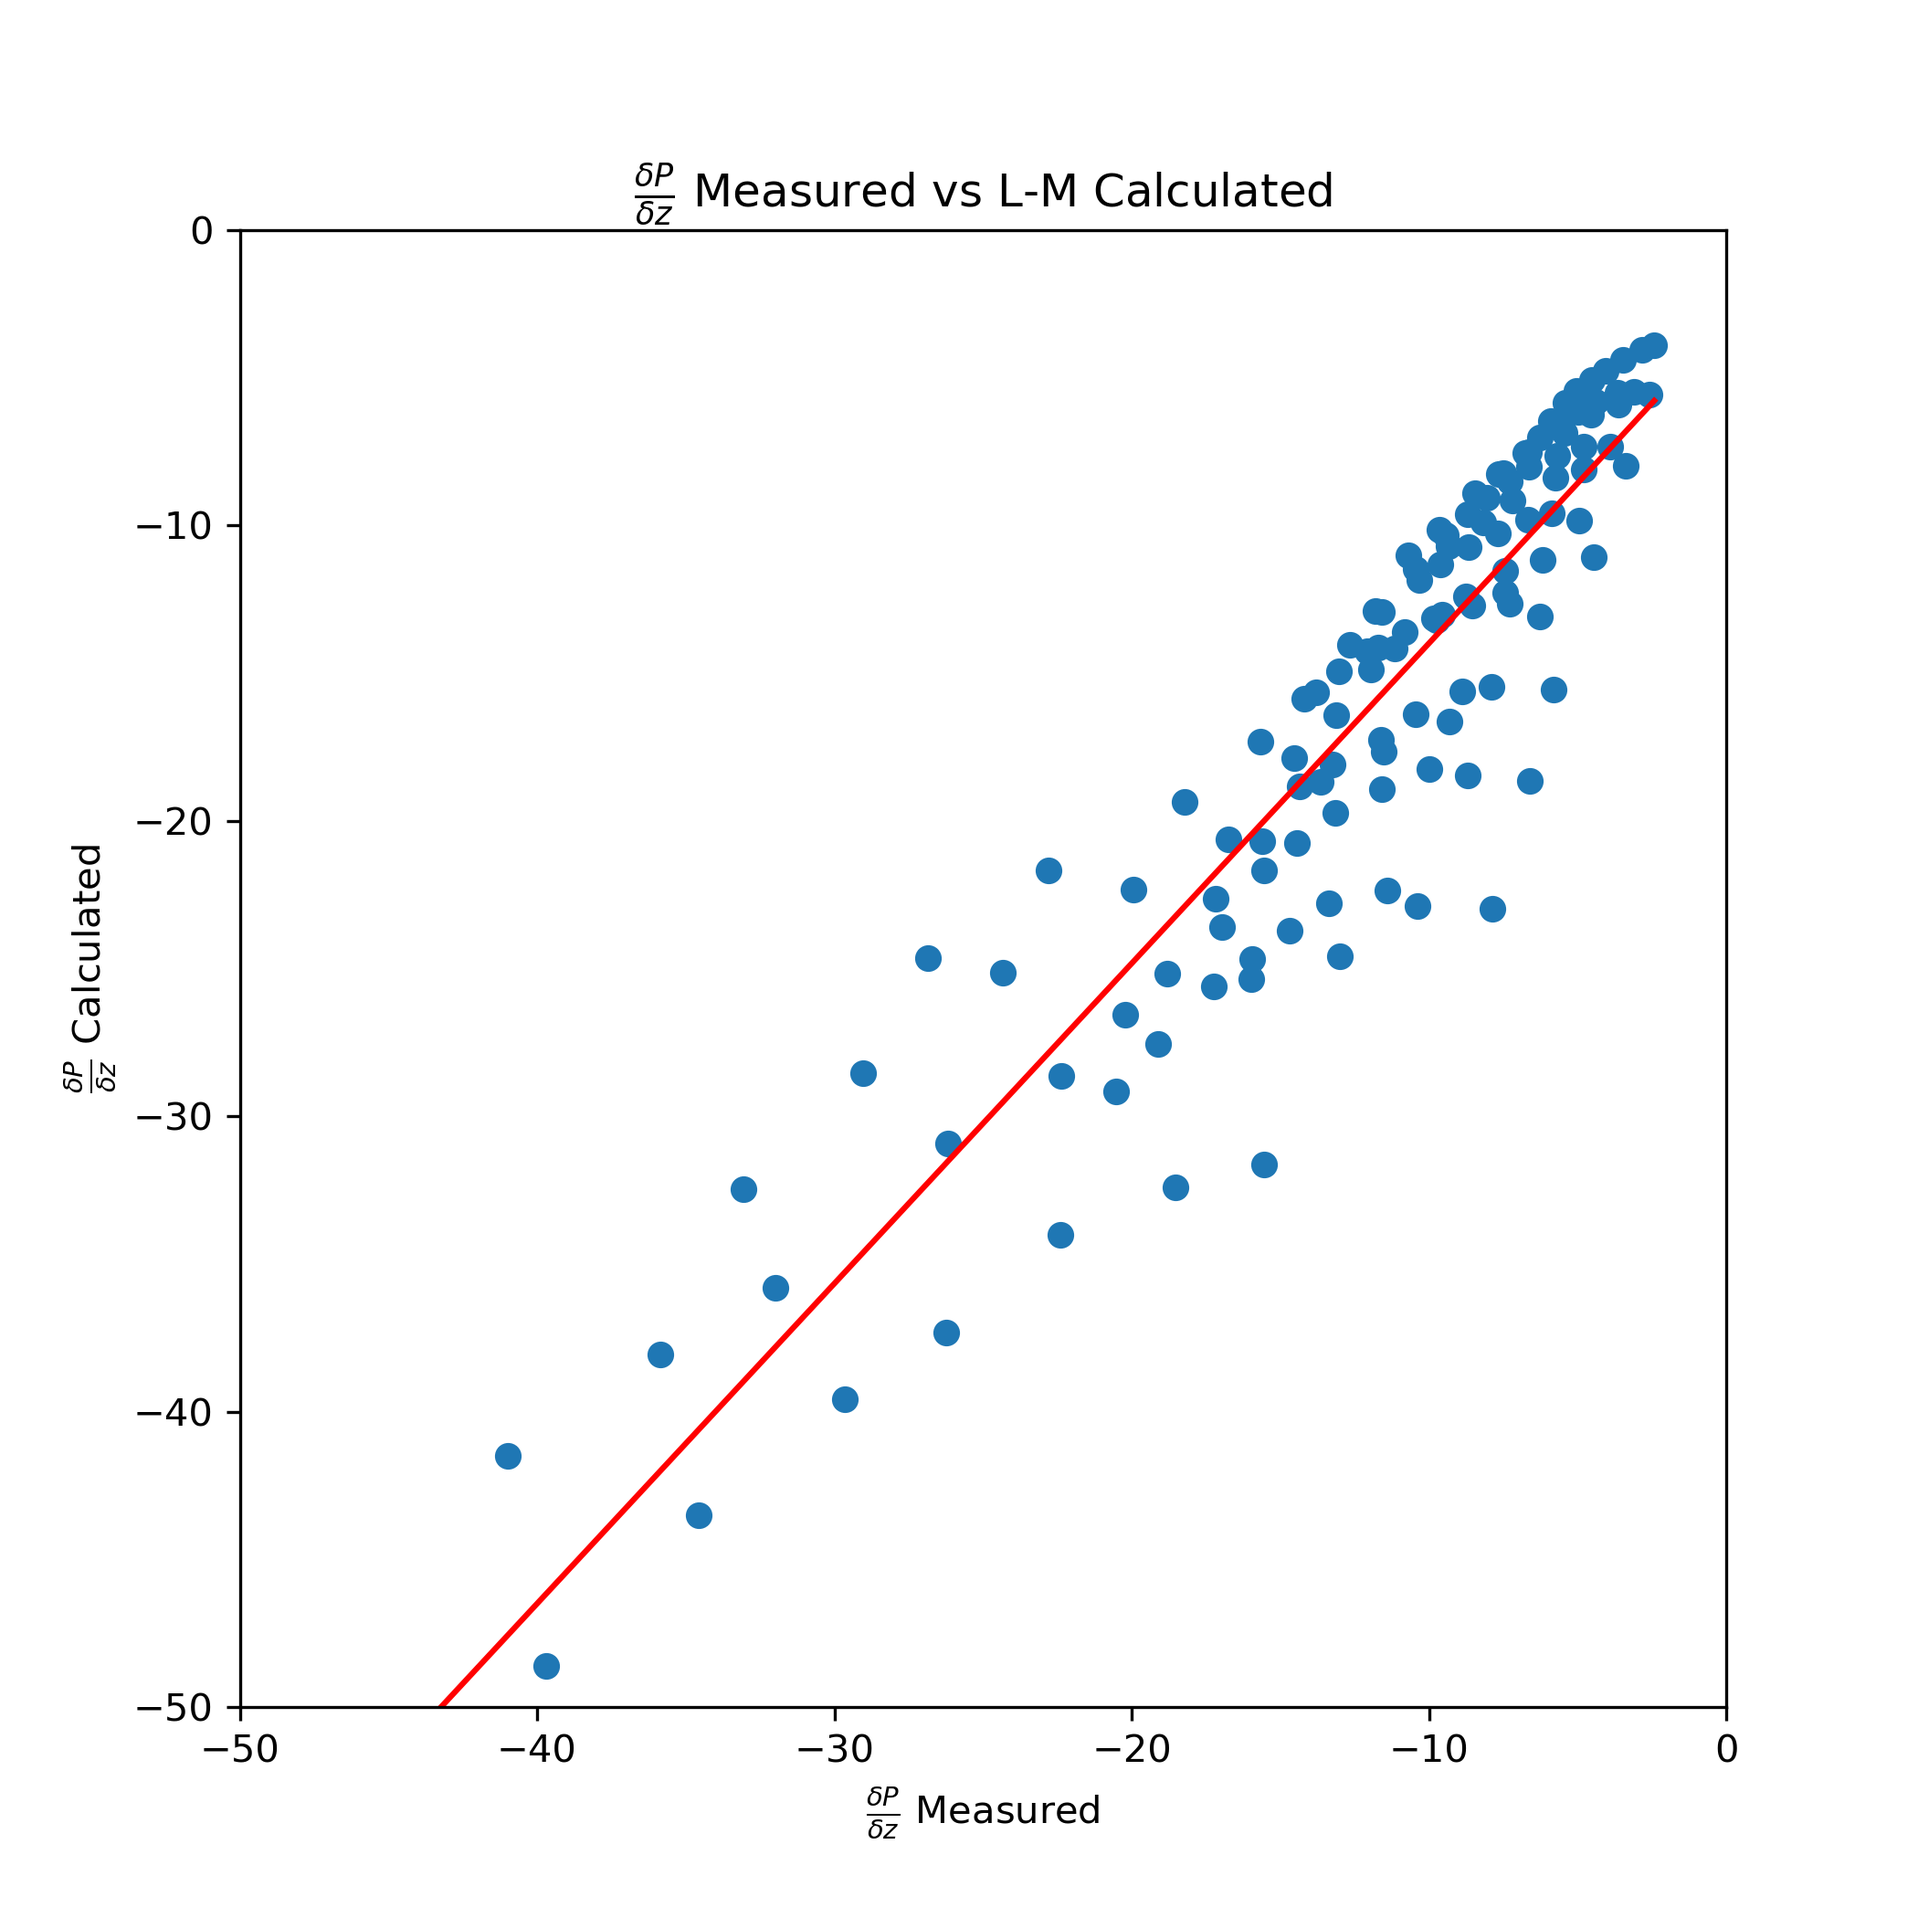
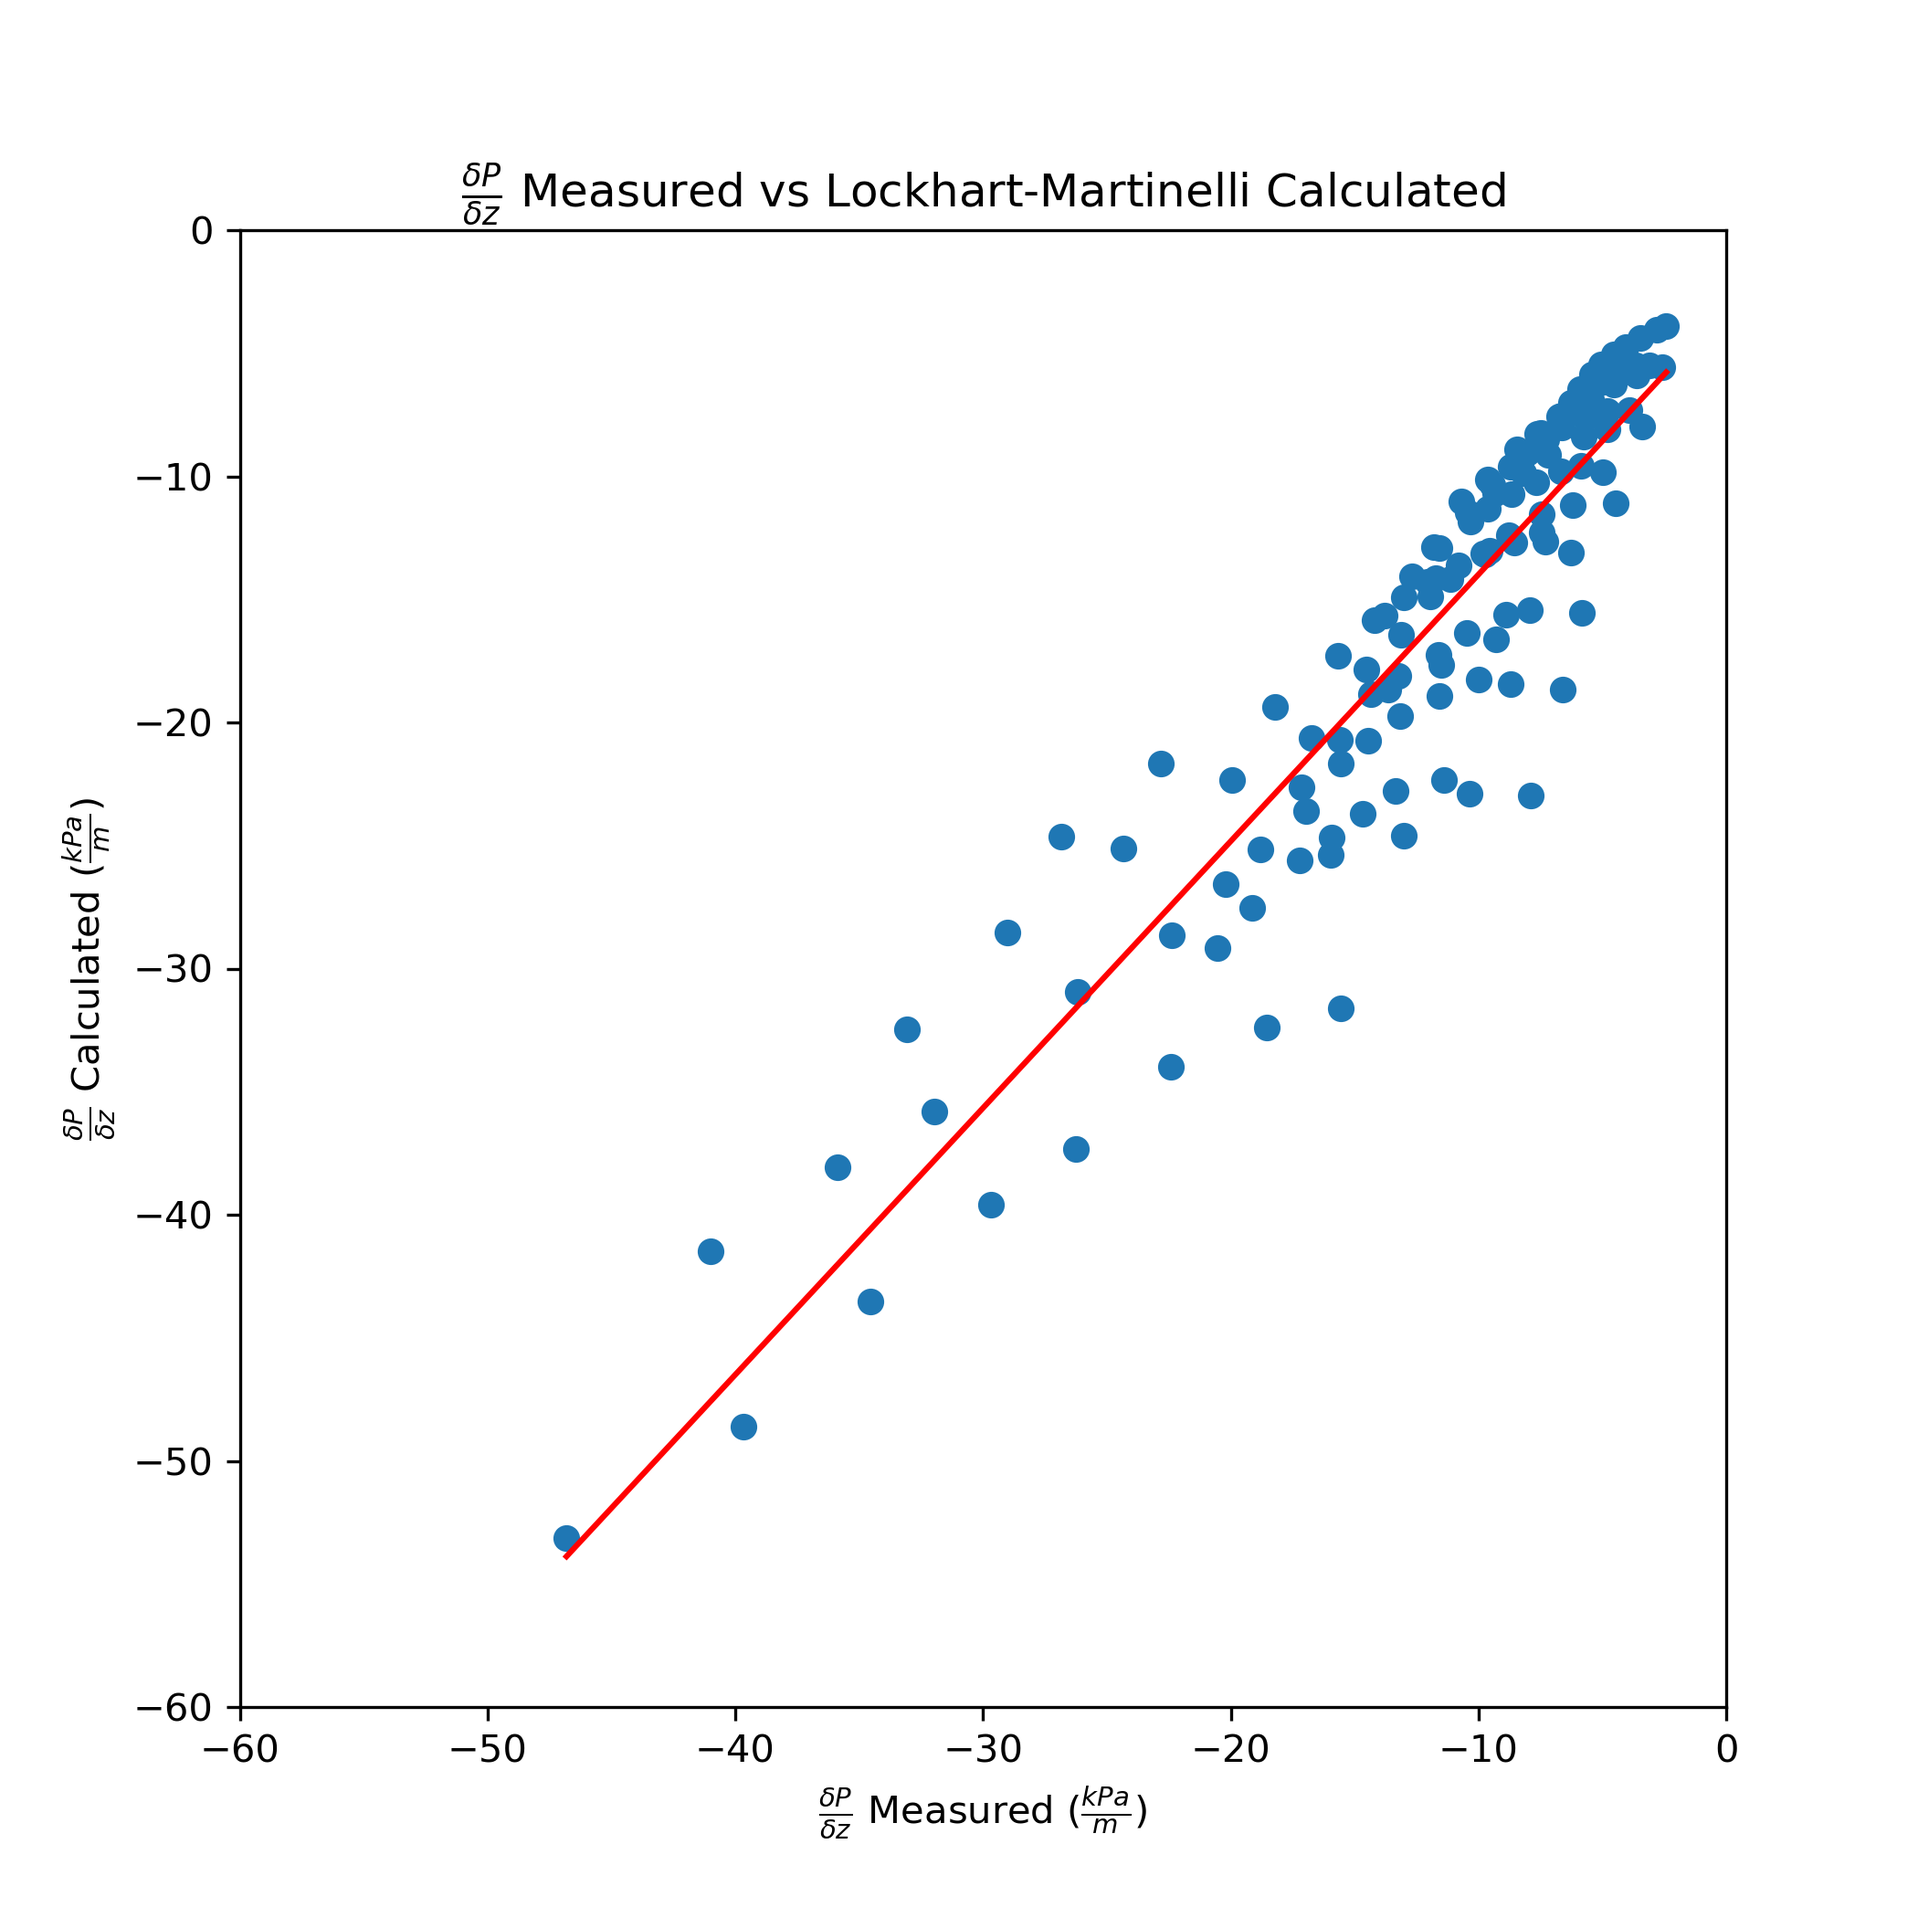
Plots completed for part 1

diff --git a/Python/Plots.py b/Python/Plots.py
@@ -13,8 +13,8 @@ def scatter_plot_HEM(Y_test, Y_pred):
     my_dpi=300
     plt.figure(figsize=(2100/my_dpi, 2100/my_dpi), dpi=my_dpi)
     plt.scatter(Y_test,Y_pred) 
-    plt.xlabel(r'$\frac{\delta P}{\delta z}$ Measured')
-    plt.ylabel(r'$\frac{\delta P}{\delta z}$ Calculated')
+    plt.xlabel(r'$\frac{\delta P}{\delta z}$ Measured $(\frac{kPa}{m})$')
+    plt.ylabel(r'$\frac{\delta P}{\delta z}$ Calculated $(\frac{kPa}{m})$')
     plt.title(r'$\frac{\delta P}{\delta z}$ Measured vs HEM Calculated')
     plt.xlim(-60, 0)
     plt.ylim(-60, 0)
@@ -25,7 +25,7 @@ def scatter_plot_HEM(Y_test, Y_pred):
     # Add R-squared label and show/print plot
     #plt.text(0.6, 0.5, 'R-squared = %0.2f' % r_squared)
     plt.savefig(os.path.join(data_root, image_file))
-    plt.show()
+    #plt.show()
 
 def scatter_plot_HEM_mdot(Y_test, Y_pred):
     data_root='../Latex/figures'
@@ -35,9 +35,70 @@ def scatter_plot_HEM_mdot(Y_test, Y_pred):
     my_dpi=300
     plt.figure(figsize=(2100/my_dpi, 2100/my_dpi), dpi=my_dpi)
     plt.scatter(Y_test,Y_pred)
-    plt.xlabel(r'$\frac{\delta P}{\delta z}$ Measured')
-    plt.ylabel(r'$\frac{\delta P}{\delta z}$ Calculated')
-    plt.title(r'$\frac{\delta P}{\delta z}$ Measured vs HEM Calculated')
+    plt.xlabel(r'$\dot m_g (\frac{g}{S})$')
+    plt.ylabel(r'$\frac{delta P}{\delta z}$ Calculated $(\frac{kPa}{m})$')
+    plt.title(r'$\dot m_g$ vs HEM Calculated')
+
+    # Generate Plot
+    #plt.plot(np.unique(Y_test), np.poly1d(np.polyfit(Y_test, Y_pred, 1))(np.unique(Y_test)), color='red')
+
+    # Add R-squared label and show/print plot
+    #plt.text(0.6, 0.5, 'R-squared = %0.2f' % r_squared)
+    plt.savefig(os.path.join(data_root, image_file))
+    #plt.show()
+
+def scatter_plot_HEM_rho(Y_test, Y_pred):
+    data_root='../Latex/figures'
+    image_file='scatter_plot_HEM_rho.png'
+
+    # Define Plot
+    my_dpi=300
+    plt.figure(figsize=(2100/my_dpi, 2100/my_dpi), dpi=my_dpi)
+    plt.scatter(Y_test,Y_pred)
+    plt.xlabel(r'$\rho_g (\frac{kg}{m^3})$')
+    plt.ylabel(r'$\frac{delta P}{\delta z}$ Calculated $(\frac{kPa}{m})$')
+    plt.title(r'$\rho_g$ vs HEM Calculated')
+
+    # Generate Plot
+    #plt.plot(np.unique(Y_test), np.poly1d(np.polyfit(Y_test, Y_pred, 1))(np.unique(Y_test)), color='red')
+
+    # Add R-squared label and show/print plot
+    #plt.text(0.6, 0.5, 'R-squared = %0.2f' % r_squared)
+    plt.savefig(os.path.join(data_root, image_file))
+    #plt.show()
+
+def scatter_plot_HEM_D(Y_test, Y_pred):
+    data_root='../Latex/figures'
+    image_file='scatter_plot_HEM_D.png'
+
+    # Define Plot
+    my_dpi=300
+    plt.figure(figsize=(2100/my_dpi, 2100/my_dpi), dpi=my_dpi)
+    plt.scatter(Y_test,Y_pred)
+    plt.xlabel('Diameter (mm)')
+    plt.ylabel(r'$\frac{delta P}{\delta z}$ Calculated $(\frac{kPa}{m})$')
+    plt.title('Pipe Diameter vs HEM Calculated')
+
+    # Generate Plot
+    #plt.plot(np.unique(Y_test), np.poly1d(np.polyfit(Y_test, Y_pred, 1))(np.unique(Y_test)), color='red')
+
+    # Add R-squared label and show/print plot
+    #plt.text(0.6, 0.5, 'R-squared = %0.2f' % r_squared)
+    plt.savefig(os.path.join(data_root, image_file))
+    #plt.show()
+
+
+def scatter_plot_LM(Y_test, Y_pred):
+    data_root='../Latex/figures'
+    image_file='scatter_plot_LM_dpdz.png'
+
+    # Define Plot
+    my_dpi=300
+    plt.figure(figsize=(2100/my_dpi, 2100/my_dpi), dpi=my_dpi)
+    plt.scatter(Y_test,Y_pred) 
+    plt.xlabel(r'$\frac{\delta P}{\delta z}$ Measured $(\frac{kPa}{m})$')
+    plt.ylabel(r'$\frac{\delta P}{\delta z}$ Calculated $(\frac{kPa}{m})$')
+    plt.title(r'$\frac{\delta P}{\delta z}$ Measured vs Lockhart-Martinelli Calculated')
     plt.xlim(-60, 0)
     plt.ylim(-60, 0)
 
@@ -47,43 +108,81 @@ def scatter_plot_HEM_mdot(Y_test, Y_pred):
     # Add R-squared label and show/print plot
     #plt.text(0.6, 0.5, 'R-squared = %0.2f' % r_squared)
     plt.savefig(os.path.join(data_root, image_file))
-    plt.show()
+    #plt.show()
 
-def scatter_plot_LM(Y_test, Y_pred):
+def scatter_plot_LM_mdot(Y_test, Y_pred):
     data_root='../Latex/figures'
-    image_file='scatter_plot_LM_dpdz.png'
+    image_file='scatter_plot_LM_mdot.png'
 
     # Define Plot
     my_dpi=300
     plt.figure(figsize=(2100/my_dpi, 2100/my_dpi), dpi=my_dpi)
     plt.scatter(Y_test,Y_pred)
-    plt.xlabel(r'$\frac{\delta P}{\delta z}$ Measured')
-    plt.ylabel(r'$\frac{\delta P}{\delta z}$ Calculated')
-    plt.title(r'$\frac{\delta P}{\delta z}$ Measured vs L-M Calculated')
-    plt.xlim(-50, 0)
-    plt.ylim(-50, 0)
+    plt.xlabel(r'$\dot m_g (\frac{g}{S})$')
+    plt.ylabel(r'$\frac{delta P}{\delta z}$ Calculated $(\frac{kPa}{m})$')
+    plt.title(r'$\dot m_g$ vs Lockhart-Martinelli Calculated')
 
     # Generate Plot
-    plt.plot(np.unique(Y_test), np.poly1d(np.polyfit(Y_test, Y_pred, 1))(np.unique(Y_test)), color='red')
+    #plt.plot(np.unique(Y_test), np.poly1d(np.polyfit(Y_test, Y_pred, 1))(np.unique(Y_test)), color='red')
 
     # Add R-squared label and show/print plot
     #plt.text(0.6, 0.5, 'R-squared = %0.2f' % r_squared)
     plt.savefig(os.path.join(data_root, image_file))
-    plt.show()
+    #plt.show()
 
-def scatter_plot_Fe(Y_test, Y_pred):
+def scatter_plot_LM_rho(Y_test, Y_pred):
     data_root='../Latex/figures'
-    image_file='scatter_plot_Fe_dpdz.png'
+    image_file='scatter_plot_LM_rho.png'
 
     # Define Plot
     my_dpi=300
     plt.figure(figsize=(2100/my_dpi, 2100/my_dpi), dpi=my_dpi)
     plt.scatter(Y_test,Y_pred)
-    plt.xlabel(r'$\frac{\delta P}{\delta z}$ Measured')
-    plt.ylabel(r'$\frac{\delta P}{\delta z}$ Calculated')
+    plt.xlabel(r'$\rho_g (\frac{kg}{m^3})$')
+    plt.ylabel(r'$\frac{delta P}{\delta z}$ Calculated $(\frac{kPa}{m})$')
+    plt.title(r'$\rho_g$ vs Lockhart-Martinelli Calculated')
+
+    # Generate Plot
+    #plt.plot(np.unique(Y_test), np.poly1d(np.polyfit(Y_test, Y_pred, 1))(np.unique(Y_test)), color='red')
+
+    # Add R-squared label and show/print plot
+    #plt.text(0.6, 0.5, 'R-squared = %0.2f' % r_squared)
+    plt.savefig(os.path.join(data_root, image_file))
+    #plt.show()
+
+def scatter_plot_LM_D(Y_test, Y_pred):
+    data_root='../Latex/figures'
+    image_file='scatter_plot_LM_D.png'
+
+    # Define Plot
+    my_dpi=300
+    plt.figure(figsize=(2100/my_dpi, 2100/my_dpi), dpi=my_dpi)
+    plt.scatter(Y_test,Y_pred)
+    plt.xlabel('Diameter (mm)')
+    plt.ylabel(r'$\frac{delta P}{\delta z}$ Calculated $(\frac{kPa}{m})$')
+    plt.title('Pipe Diameter vs Lockhart-Martinelli Calculated')
+
+    # Generate Plot
+    #plt.plot(np.unique(Y_test), np.poly1d(np.polyfit(Y_test, Y_pred, 1))(np.unique(Y_test)), color='red')
+
+    # Add R-squared label and show/print plot
+    #plt.text(0.6, 0.5, 'R-squared = %0.2f' % r_squared)
+    plt.savefig(os.path.join(data_root, image_file))
+    #plt.show()
+
+def scatter_plot_FE(Y_test, Y_pred):
+    data_root='../Latex/figures'
+    image_file='scatter_plot_FE_dpdz.png'
+
+    # Define Plot
+    my_dpi=300
+    plt.figure(figsize=(2100/my_dpi, 2100/my_dpi), dpi=my_dpi)
+    plt.scatter(Y_test,Y_pred) 
+    plt.xlabel(r'$\frac{\delta P}{\delta z}$ Measured $(\frac{kPa}{m})$')
+    plt.ylabel(r'$\frac{\delta P}{\delta z}$ Calculated $(\frac{kPa}{m})$')
     plt.title(r'$\frac{\delta P}{\delta z}$ Measured vs Friedel Calculated')
-    plt.xlim(-50, 0)
-    plt.ylim(-50, 0)
+    plt.xlim(-60, 0)
+    plt.ylim(-60, 0)
 
     # Generate Plot
     plt.plot(np.unique(Y_test), np.poly1d(np.polyfit(Y_test, Y_pred, 1))(np.unique(Y_test)), color='red')
@@ -91,4 +190,64 @@ def scatter_plot_Fe(Y_test, Y_pred):
     # Add R-squared label and show/print plot
     #plt.text(0.6, 0.5, 'R-squared = %0.2f' % r_squared)
     plt.savefig(os.path.join(data_root, image_file))
-    plt.show()
+    #plt.show()
+
+def scatter_plot_FE_mdot(Y_test, Y_pred):
+    data_root='../Latex/figures'
+    image_file='scatter_plot_FE_mdot.png'
+
+    # Define Plot
+    my_dpi=300
+    plt.figure(figsize=(2100/my_dpi, 2100/my_dpi), dpi=my_dpi)
+    plt.scatter(Y_test,Y_pred)
+    plt.xlabel(r'$\dot m_g (\frac{g}{S})$')
+    plt.ylabel(r'$\frac{delta P}{\delta z}$ Calculated $(\frac{kPa}{m})$')
+    plt.title(r'$\dot m_g$ vs Friedel Calculated')
+
+    # Generate Plot
+    #plt.plot(np.unique(Y_test), np.poly1d(np.polyfit(Y_test, Y_pred, 1))(np.unique(Y_test)), color='red')
+
+    # Add R-squared label and show/print plot
+    #plt.text(0.6, 0.5, 'R-squared = %0.2f' % r_squared)
+    plt.savefig(os.path.join(data_root, image_file))
+    #plt.show()
+
+def scatter_plot_FE_rho(Y_test, Y_pred):
+    data_root='../Latex/figures'
+    image_file='scatter_plot_FE_rho.png'
+
+    # Define Plot
+    my_dpi=300
+    plt.figure(figsize=(2100/my_dpi, 2100/my_dpi), dpi=my_dpi)
+    plt.scatter(Y_test,Y_pred)
+    plt.xlabel(r'$\rho_g (\frac{kg}{m^3})$')
+    plt.ylabel(r'$\frac{delta P}{\delta z}$ Calculated $(\frac{kPa}{m})$')
+    plt.title(r'$\rho_g$ vs Friedel Calculated')
+
+    # Generate Plot
+    #plt.plot(np.unique(Y_test), np.poly1d(np.polyfit(Y_test, Y_pred, 1))(np.unique(Y_test)), color='red')
+
+    # Add R-squared label and show/print plot
+    #plt.text(0.6, 0.5, 'R-squared = %0.2f' % r_squared)
+    plt.savefig(os.path.join(data_root, image_file))
+    #plt.show()
+
+def scatter_plot_FE_D(Y_test, Y_pred):
+    data_root='../Latex/figures'
+    image_file='scatter_plot_FE_D.png'
+
+    # Define Plot
+    my_dpi=300
+    plt.figure(figsize=(2100/my_dpi, 2100/my_dpi), dpi=my_dpi)
+    plt.scatter(Y_test,Y_pred)
+    plt.xlabel('Diameter (mm)')
+    plt.ylabel(r'$\frac{delta P}{\delta z}$ Calculated $(\frac{kPa}{m})$')
+    plt.title('Pipe Diameter vs Friedel Calculated')
+
+    # Generate Plot
+    #plt.plot(np.unique(Y_test), np.poly1d(np.polyfit(Y_test, Y_pred, 1))(np.unique(Y_test)), color='red')
+
+    # Add R-squared label and show/print plot
+    #plt.text(0.6, 0.5, 'R-squared = %0.2f' % r_squared)
+    plt.savefig(os.path.join(data_root, image_file))
+    #plt.show()

diff --git a/Python/Correlator.py b/Python/Correlator.py
@@ -40,6 +40,9 @@ print(data)
 ### HEM Cororelation ###
 corr = []
 exp = []
+m_dot_a = []
+rho_g_a = []
+Diam_a = []
 for row_test in data.itertuples():
    D = row_test.D/1000
    t_mdotg = row_test.m_dot_g/1000
@@ -62,7 +65,10 @@ for row_test in data.itertuples():
 
    # MAE
    corr = corr + [dp_dz]
-   exp  = exp + [row_test.dP_dz]
+   exp  = exp  + [row_test.dP_dz]
+   m_dot_a = m_dot_a + [row_test.m_dot_g]
+   rho_g_a = rho_g_a + [row_test.rho_g]
+   Diam_a = Diam_a + [row_test.D]
 
 mae=MAE(corr, exp)
 print('MAE: %s' % (mae))
@@ -79,11 +85,17 @@ print('RMS: %s' % (rms))
 r2=R2(corr, exp)
 print('R2: %s' % (r2))
    
-scatter_plot(exp, corr)
+scatter_plot_HEM(exp, corr)
+scatter_plot_HEM_mdot(m_dot_a, corr)
+scatter_plot_HEM_rho(rho_g_a, corr)
+scatter_plot_HEM_D(Diam_a, corr)
 
 ### Lockhard-Martinelli Correlation ###
 corr = []
 exp = []
+m_dot_a = []
+rho_g_a = []
+Diam_a = []
 for row_test in data.itertuples():
    D = row_test.D/1000
    t_mdotg = row_test.m_dot_g/1000
@@ -103,6 +115,9 @@ for row_test in data.itertuples():
 #   print('Correlated: %s kPa/m  Experimental: %s kPa/m' % (dp_dz, row_test.dP_dz))
    corr = corr + [dp_dz]
    exp  = exp + [row_test.dP_dz]
+   m_dot_a = m_dot_a + [row_test.m_dot_g]
+   rho_g_a = rho_g_a + [row_test.rho_g]
+   Diam_a = Diam_a + [row_test.D]
 
 mae=MAE(corr, exp)
 print('MAE: %s' % (mae))
@@ -119,9 +134,17 @@ print('RMS: %s' % (rms))
 r2=R2(corr, exp)
 print('R2: %s' % (r2))
 
+scatter_plot_LM(exp, corr)
+scatter_plot_LM_mdot(m_dot_a, corr)
+scatter_plot_LM_rho(rho_g_a, corr)
+scatter_plot_LM_D(Diam_a, corr)
+
 ### Friedel Correlation ###
 corr = []
 exp = []
+m_dot_a = []
+rho_g_a = []
+Diam_a = []
 for row_test in data.itertuples():
    D = row_test.D/1000
    t_mdotg = row_test.m_dot_g/1000
@@ -142,6 +165,9 @@ for row_test in data.itertuples():
 
    corr = corr + [dp_dz]
    exp  = exp + [row_test.dP_dz]
+   m_dot_a = m_dot_a + [row_test.m_dot_g]
+   rho_g_a = rho_g_a + [row_test.rho_g]
+   Diam_a = Diam_a + [row_test.D]
 
 mae=MAE(corr, exp)
 print('MAE: %s' % (mae))
@@ -157,6 +183,11 @@ print('RMS: %s' % (rms))
 # R2
 r2=R2(corr, exp)
 print('R2: %s' % (r2))
+
+scatter_plot_FE(exp, corr)
+scatter_plot_FE_mdot(m_dot_a, corr)
+scatter_plot_FE_rho(rho_g_a, corr)
+scatter_plot_FE_D(Diam_a, corr)
 exit()
 
 ####### Part 2 #######
